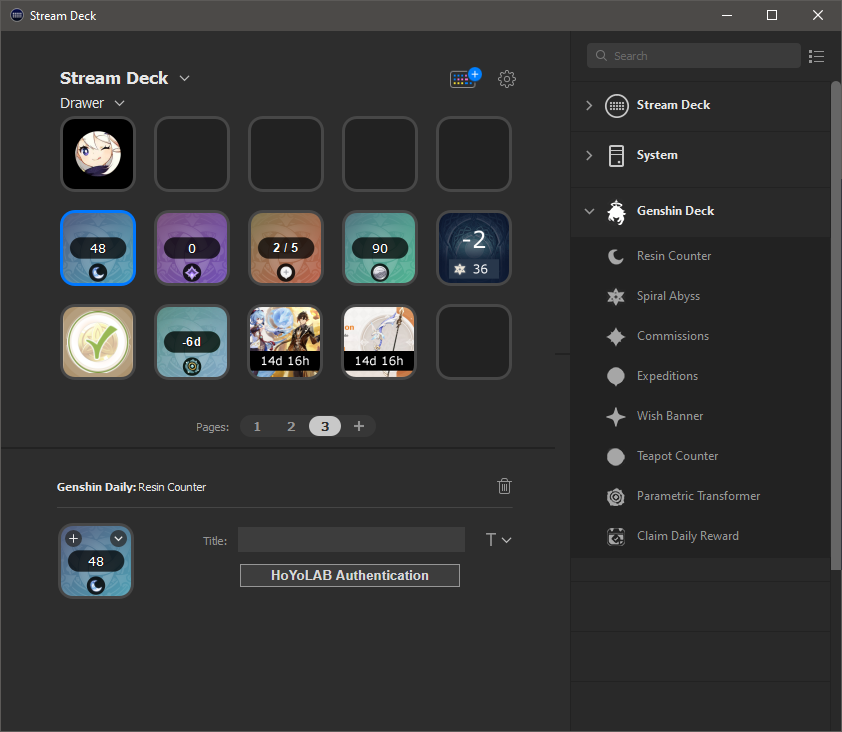
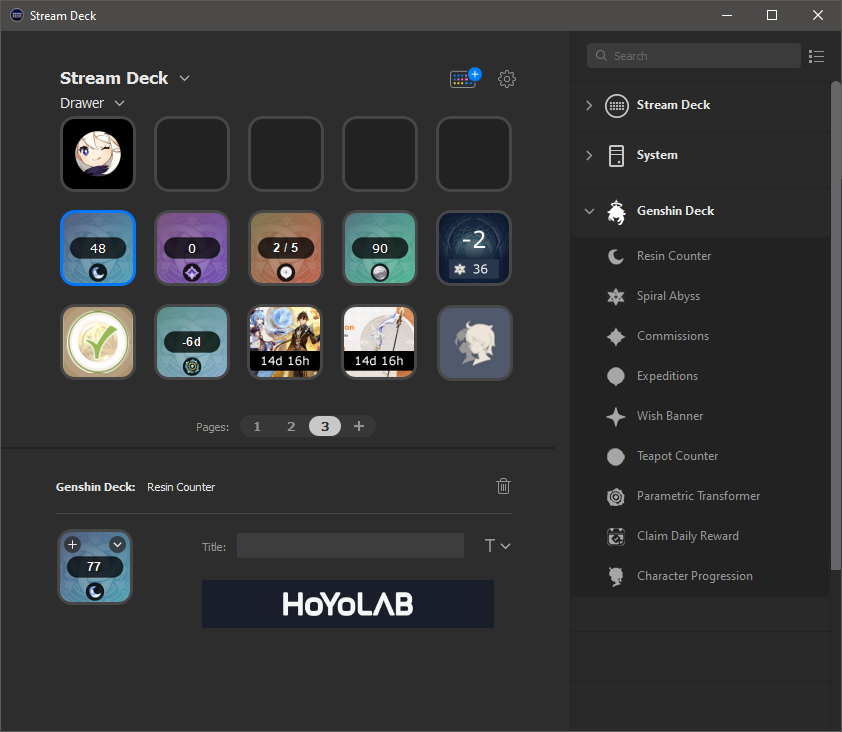
update readme

diff --git a/README.md b/README.md
@@ -23,6 +23,9 @@ or from below:
 ### Expeditions View (tap on expeditions' action)
 ![actions](https://github.com/fcannizzaro/genshin-deck/blob/main/media/expeditions-view.png?raw=true)
 
+### Progression Action and View
+![actions](https://github.com/fcannizzaro/genshin-deck/blob/main/media/character-progression.gif?raw=true)
+
 ## Authentication
 
 This tool uses the HoYoLAB cookies to obtain the info about your game instance.
